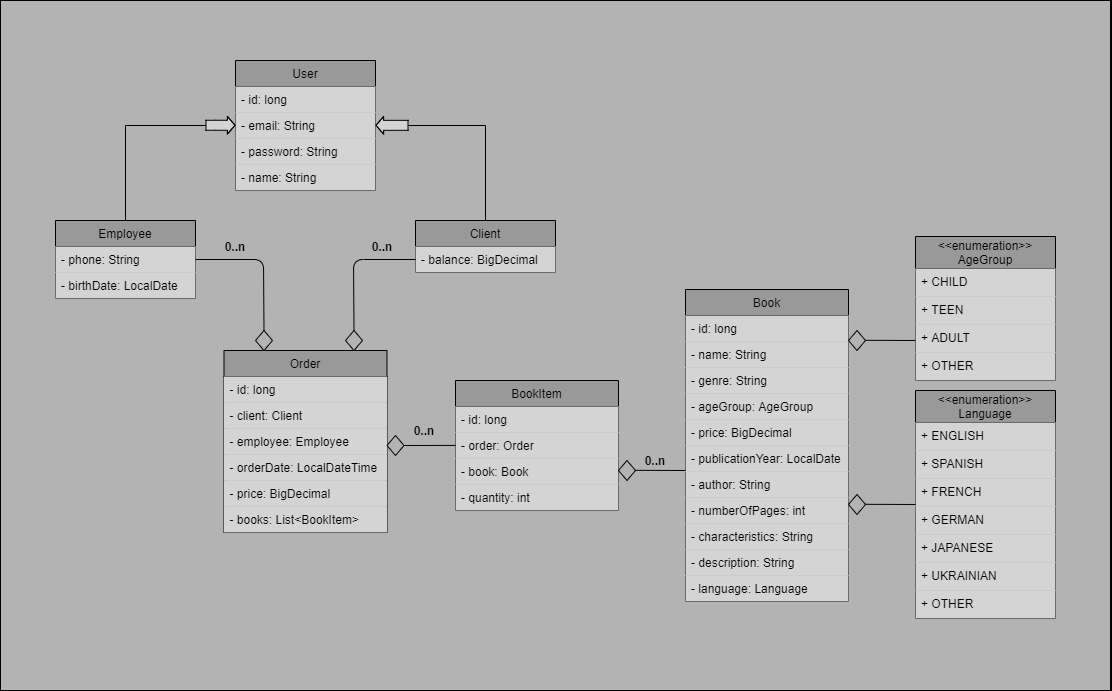
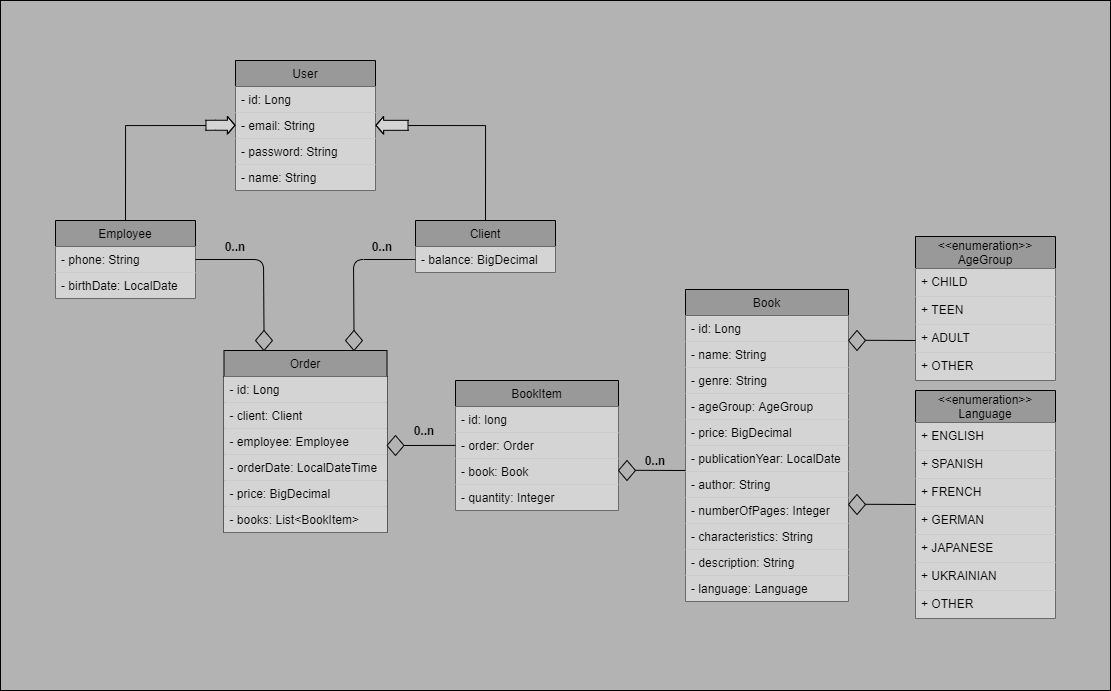
Edited README.md content

diff --git a/README.md b/README.md
@@ -6,71 +6,163 @@ Duration: **15** hours
 
 ## Description
 
-In this task, you will implement "Book Store Service" using MVC pattern. All the main classes are available and waiting
-for you in the appropriate folders.
+Your objective is to develop a "Book Store Service" following the MVC pattern.
+The project structure is already set up, with essential classes waiting for implementation in their respective folders.
 
 Your project is organized into several packages. Here's a brief overview of each:
 
+### Packages Overview
+
 #### `conf`
 
-- All configuration classes are located here.
+- Houses all configuration classes.
 
 #### `controller`
 
-- **`dto`**: Contains DTO files.
-- **`error`**: Contains ErrorHandler file.
-- **`impl`**: Contains implementations of all declared controllers.
-- **`base`**: Contains interfaces with declared methods for all controllers.
+- **`dto`**: Contains DTO (Data Transfer Object) files.
+- **`error`**: Holds the ErrorHandler file.
+- **`impl`**: Includes implementations of declared controllers.
+- **`base`**: Consists of interfaces with declared methods for all controllers.
 
 #### `model`
 
-- All model classes are located here.
+- Contains all model classes.
 
 #### `service`
 
 - `exception`: Contains custom user exception files.
 - `repo`: Contains repository files.
-- `impl`: Contains implementations of all declared services.
-- `base`: Contains interfaces with declared methods for all services.
+- `impl`: Encompasses implementations of declared services.
+- `base`: Includes interfaces with declared methods for all services.
 
 The class diagram of the Domain model is shown in the figure below:
 
 <img src="img/Diagram.png" alt="DTO" width="1000"/>
 
+### Permissions
+
+> For All Registered Users
+
+- Access a list of available books.
+- View detailed information about any book.
+- Edit personal information and view user profile.
+
+> For Employees
+
+- Add, edit, or delete books from the list.
+- Confirm orders placed by customers.
+- Block or unblock customer accounts as necessary.
+- Access a list of registered customers.
+
+> For Customers
+
+- Add books to the basket for purchase.
+- Delete their account if desired.
+- Submit orders for purchase.
+
+### Services
+
+> OrderService
+
+* `getAllOrders()`
+  Retrieves a list of all orders placed in the system.
+* `getOrderById(id)`
+  Fetches a specific order identified by its unique identifier.
+* `deleteOrderById(id)`
+  Deletes an order from the system based on its ID.
+* `addOrder(order)`
+  Adds a new order to the system, incorporating the provided order details.
+
+> EmployeeService
+
+* `getAllEmployees()`
+  Retrieves a list of all employees registered in the system.
+* `getEmployeeById(id)`
+  Fetches details of a specific employee based on their unique identifier.
+* `updateEmployeeById(id, employee)`
+  Updates the information of an existing employee identified by their ID with the provided details.
+* `deleteEmployeeById(id)`
+  Removes an employee from the system based on their ID.
+* `addEmployee(employee)`
+  Registers a new employee in the system with the provided details.
+
+> ClientService
+
+* `getAllClients()`
+  Retrieves a list of all clients (customers) registered in the system.
+* `getClientById(id)`
+  Fetches details of a specific client based on their unique identifier.
+* `updateClientById(id, client)`
+  Updates the information of an existing client identified by their ID with the provided details.
+* `deleteClientById(id)`
+  Removes a client from the system based on their ID.
+* `addClient(client)`
+  Registers a new client in the system with the provided details.
+
+> BookService
+
+* `getAllBooks()`
+  Retrieves a list of all books available in the store.
+* `getBookById(id)`
+  Fetches details of a specific book based on its unique identifier.
+* `updateBookById(id, book)`
+  Updates the information of an existing book identified by its ID with the provided details.
+* `deleteBookById(id)`
+  Removes a book from the system based on its ID.
+* `addBook(book)`
+  Adds a new book to the system with the provided details.
+
+> BookOrderService
+
+* `getActualCart(id)`
+  Retrieves the current shopping cart (order) of a specific client (customer).
+* `isBooksAdded()`
+  Checks if any book is already added to the client's cart.
+* `addBookItemToOrder(book)`
+  Adds a book to the client's shopping cart.
+* `calculateOrderPrice(bookItems, operation)`
+  Calculates the total price of the items in the client's shopping cart.
+
 ## Requirements
 
-You should use and successfully implement next points:
+Ensure implementation of the following:
 
-- `Spring Data JPA`
-- `Spring Security`
-- `Internationalization and Localization`
-- `Validation`
-- `Error handling`
-- `DTO` - data transfer objects with content provided below:
+- `Spring Data JPA` for efficient data management.
+-  Incorporate `Spring Security` for robust authentication and authorization.
+-  Enable `Internationalization and Localization` to support English and your native languages.
+-  Implement `Validation` for data integrity.
+-  Establish `Error handling` for graceful error management.
+-  Utilize `DTOs` - data transfer objects structured as illustrated below:
 
 <img src="img/DTO.png" alt="DTO" width="600"/>
 
 ## Would be nice
 
-- to have `Logging`
-- to have `Pagination and Sorting`
-- to use `Other Spring technologies`
-- to use `Swagger API`
+Consider the following additional features:
+
+- Incorporate `Logging` for comprehensive system monitoring.
+- Implement `Pagination and Sorting` for enhanced data presentation.
+- Utilize Other Spring technologies such as `Spring HATEOAS`, `Spring REST` or else.
+- Integrate `Swagger API` for streamlined API documentation and testing.
 
 ## Recommendations
 
-- Use `Lombok`
-- Use tools like `Postman` or `Insomnia`
-- Use `ModelMapper`
-- Use `Thymeleaf`
-- Look into `test` folder. You can try to test your solution according to the provided test cases.
-- Look into `main\resources\sql` folder. Here you can see SQL script for initializing data.
+> Use wrapper classes (like Long, Integer, etc.) instead of primitive types whenever possible.
+
+- Utilize `Lombok` for streamlined Java code.
+- Employ tools like `Postman` or `Insomnia` for API testing.
+- Implement `ModelMapper` for easy mapping between objects.
+- Utilize `Thymeleaf` for dynamic HTML rendering.
+- Explore the `test` folder to execute provided test cases for your solution.
+- Refer to the `main\resources\sql` folder for SQL scripts to initialize data.
 
 ## Special message
 
 1. Not forget to improvise and try to use different approaches while implementing your solution.
    Time is limited to 15 hours. Don't waste your time.
 
-2. You should do as much as you can.
-   We don't expect you to make a realization for all the points.
-3. Have fun!
+2. Make the most of the time available.
+   While we understand you may not cover all points,
+   aim to accomplish as much as possible within the given duration.
+
+3. Enjoy the process!
